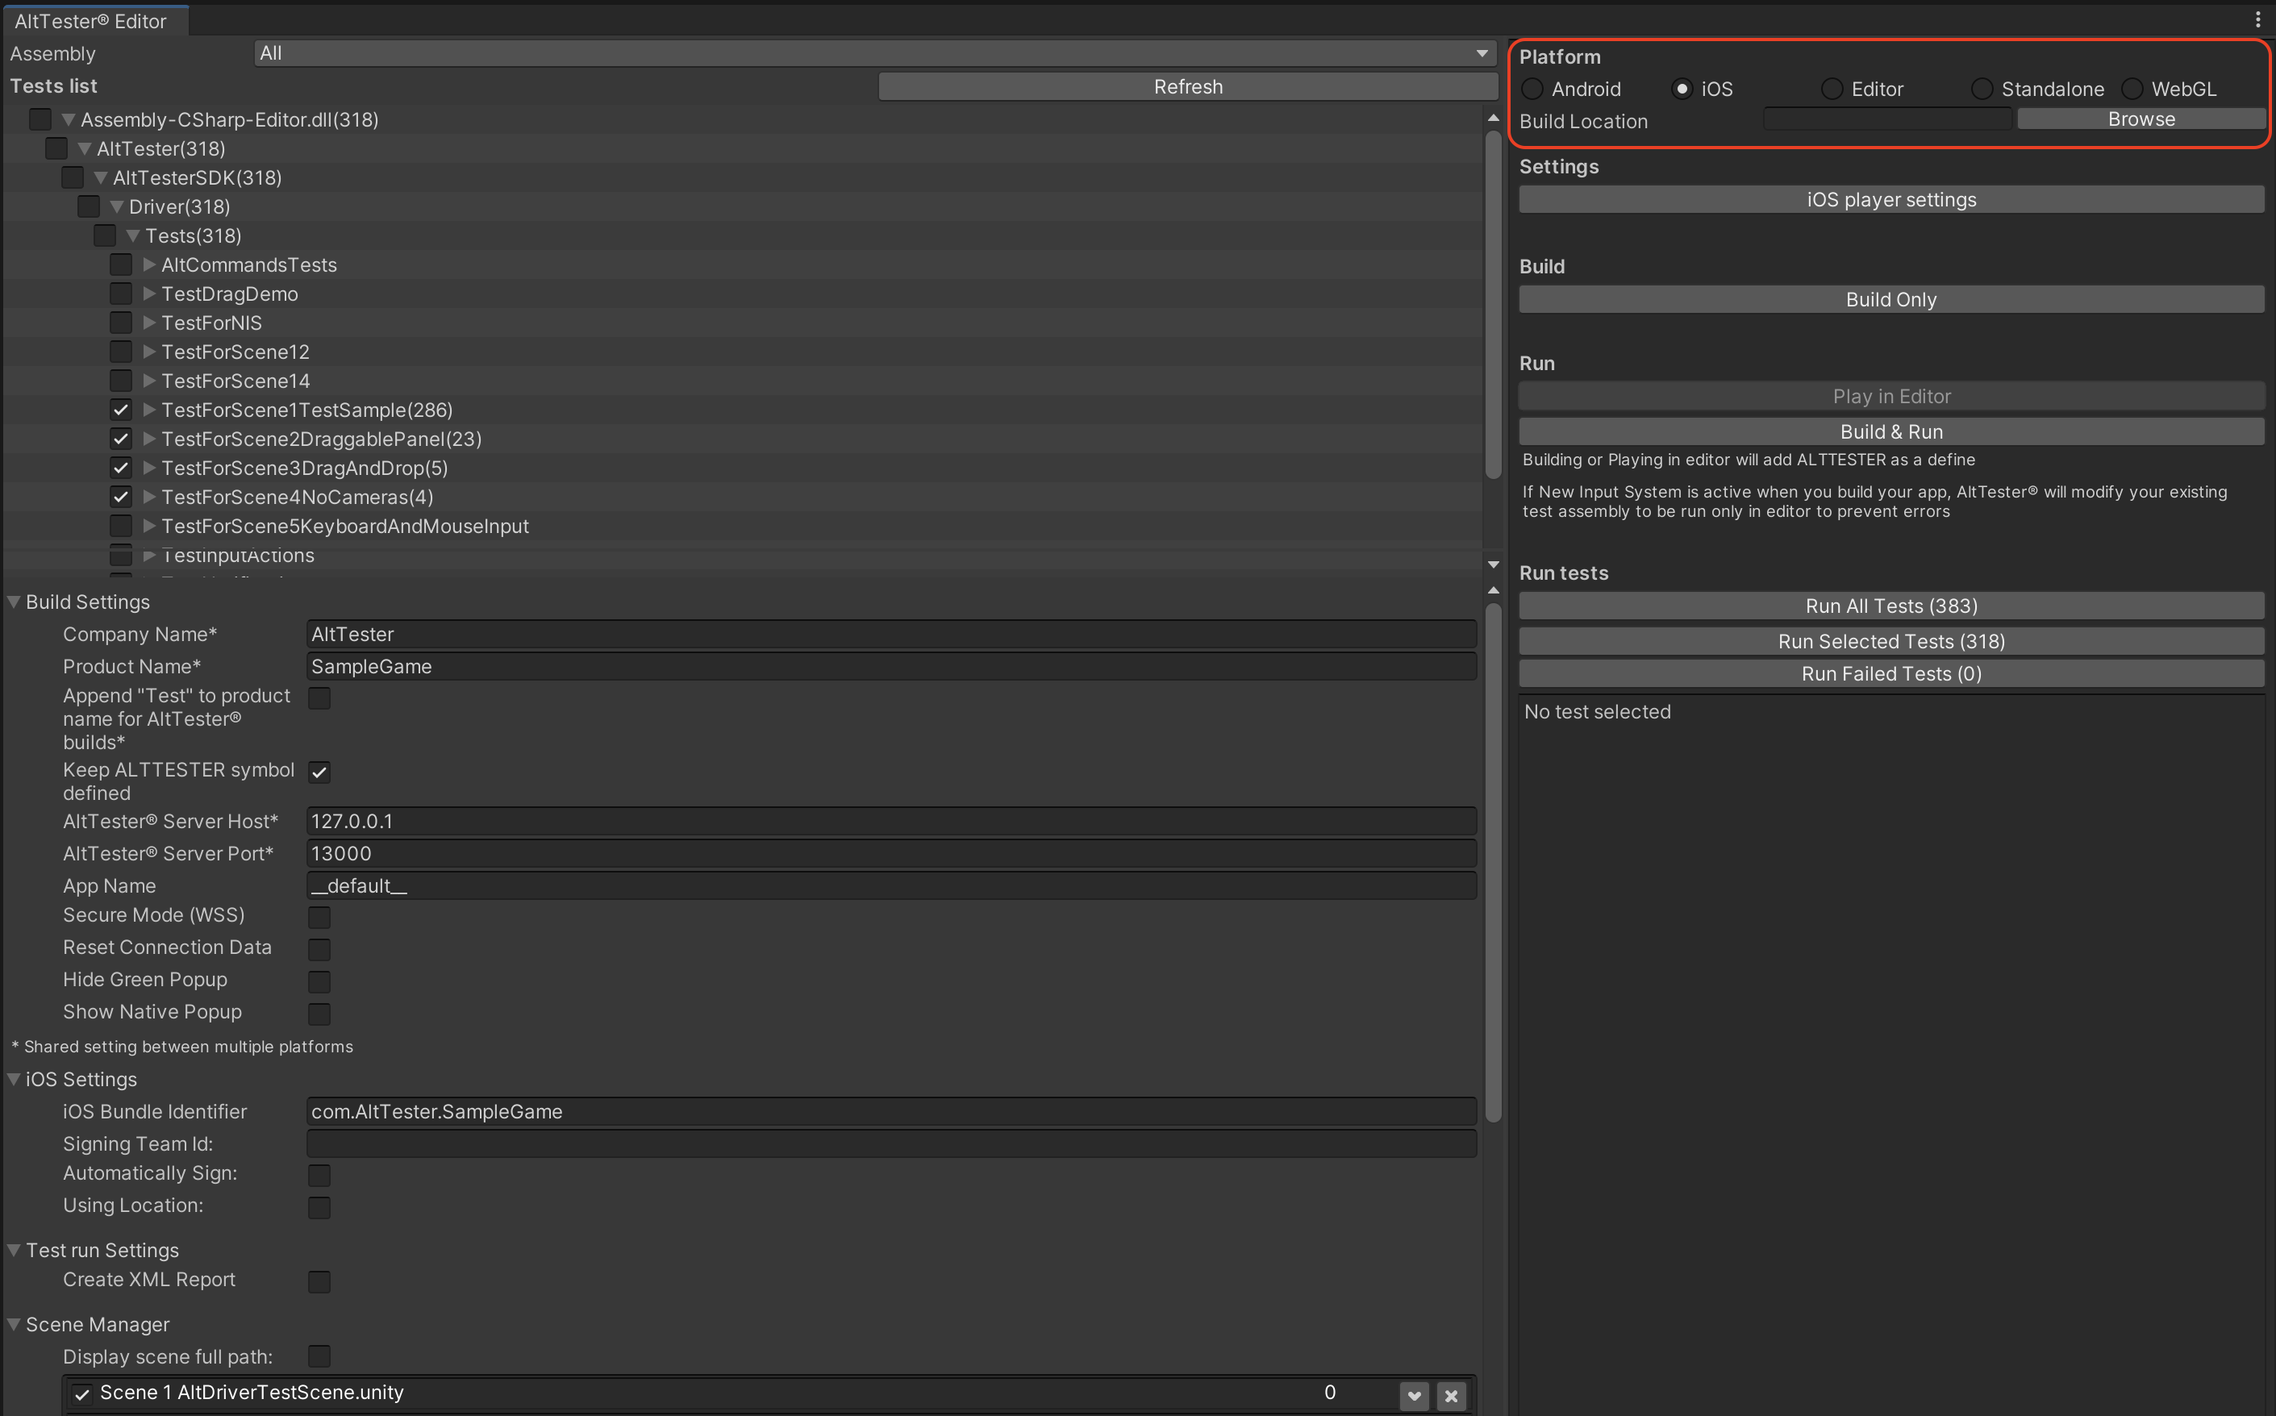
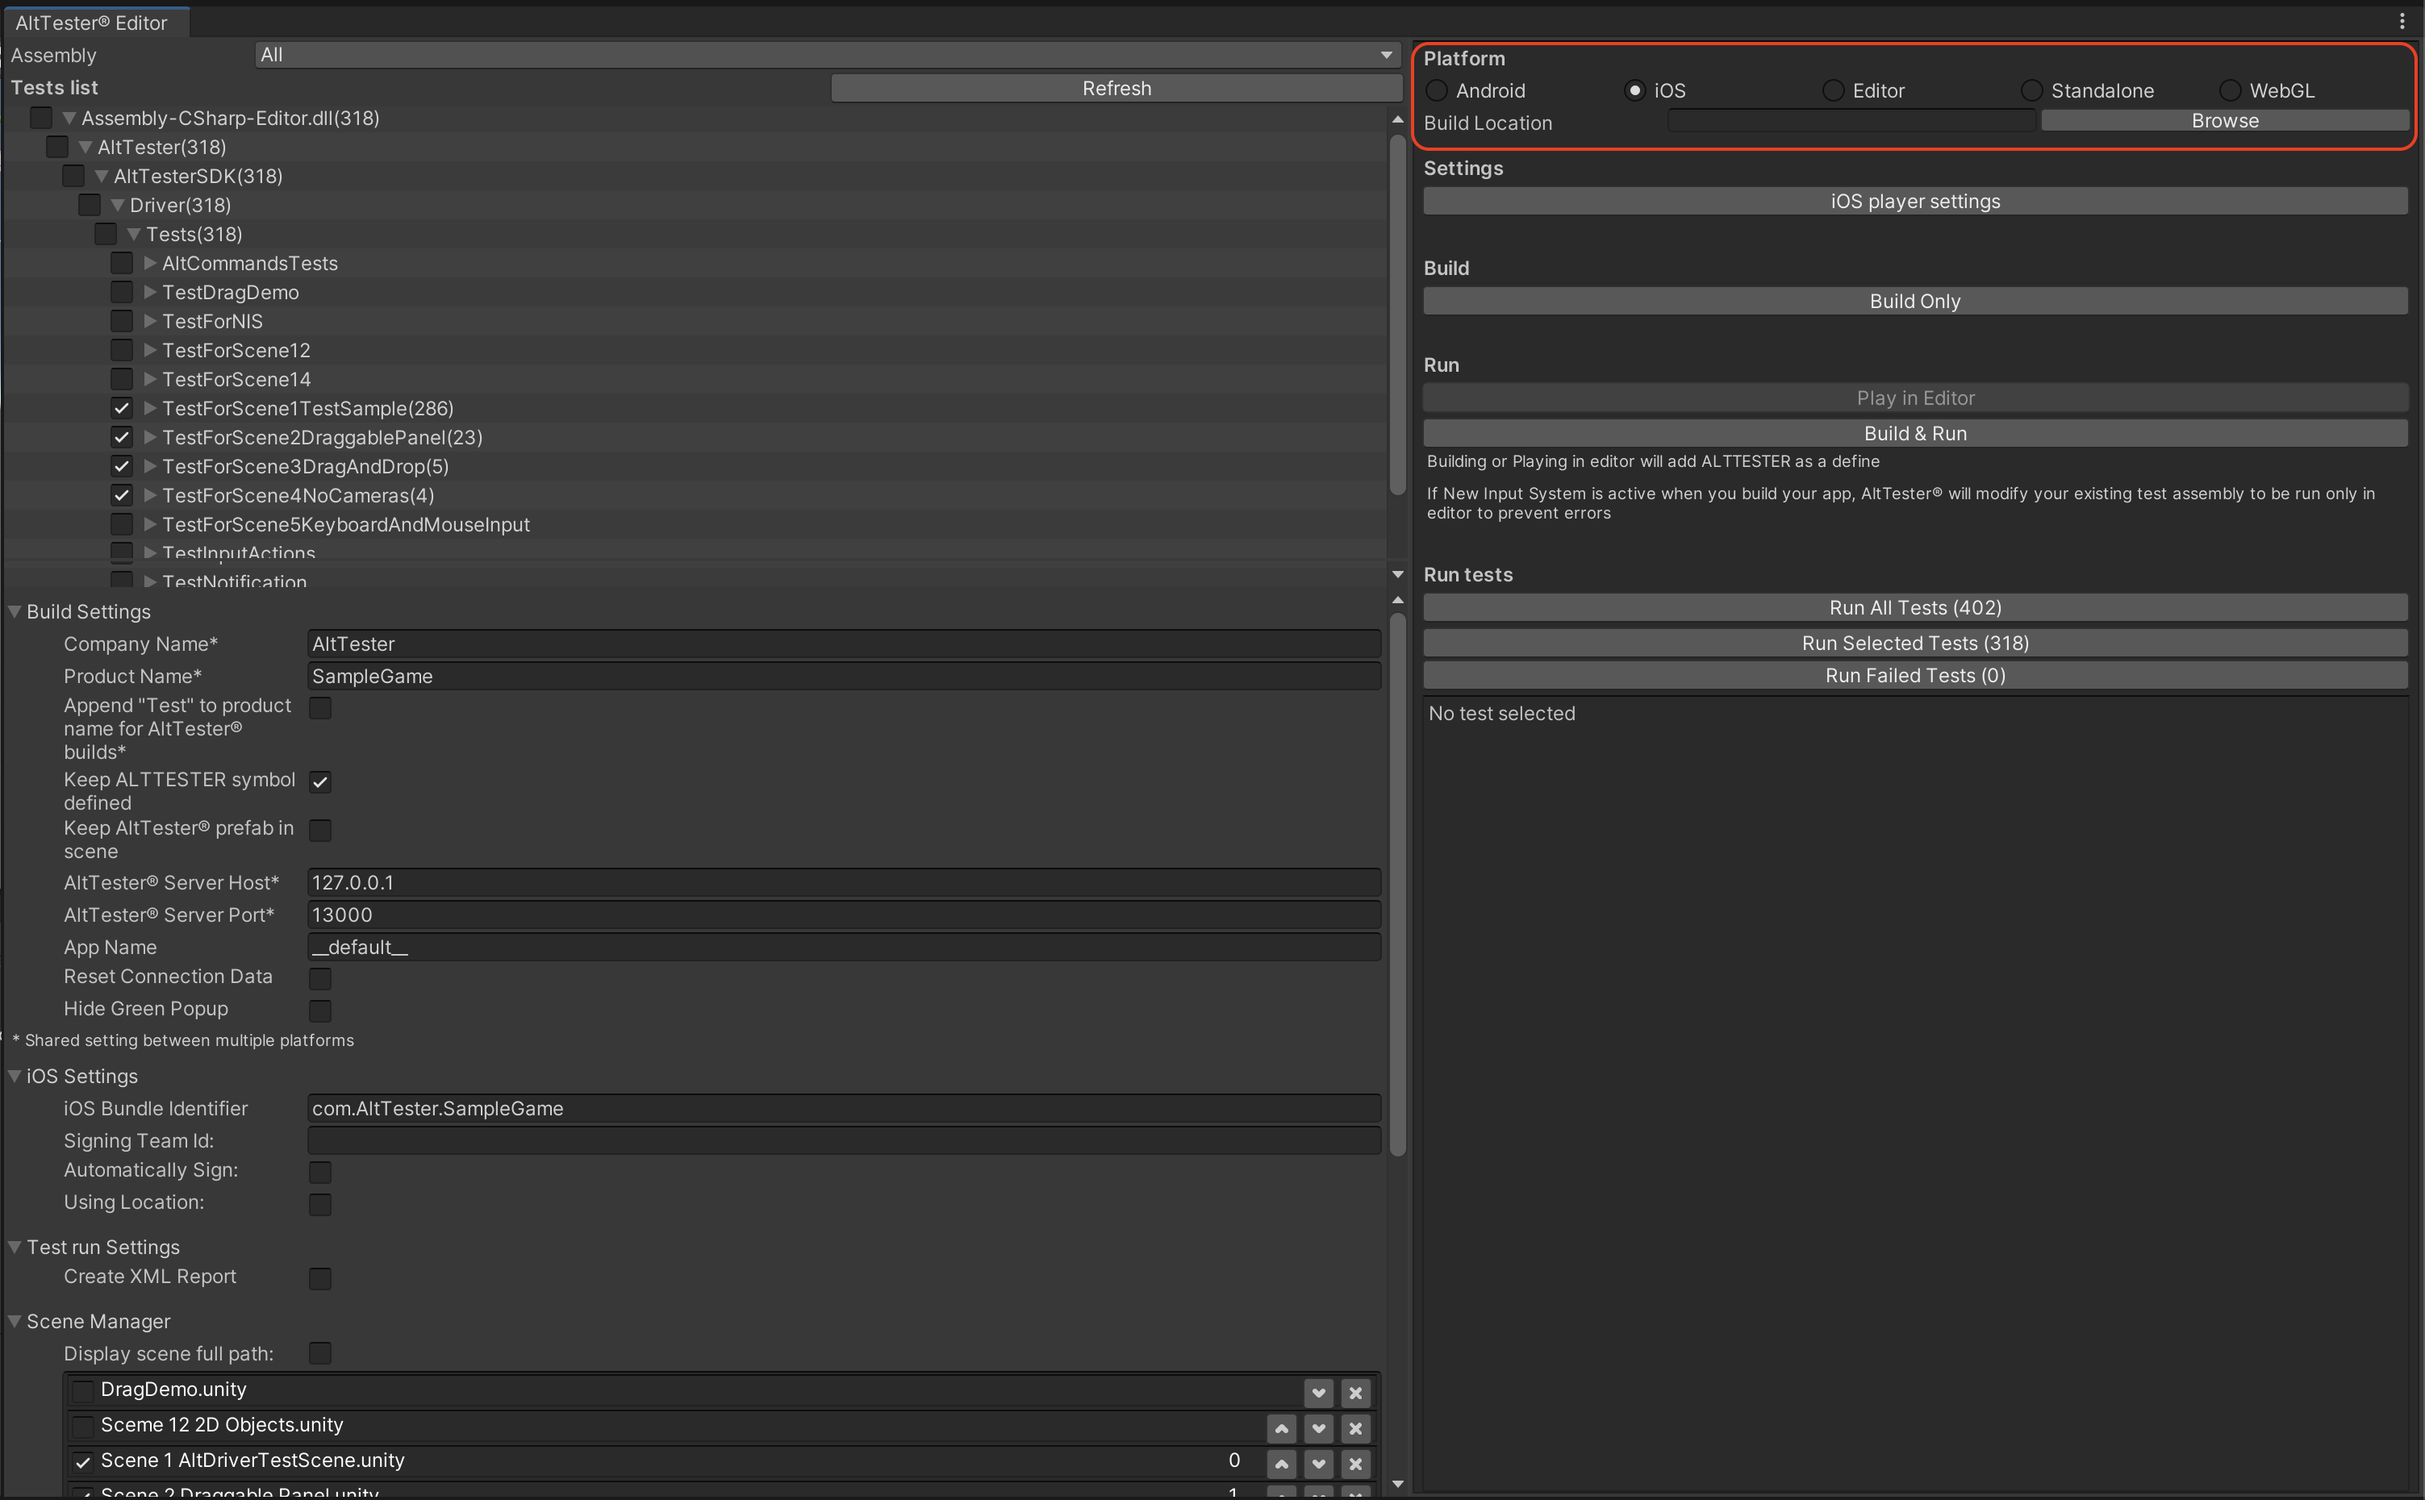
Updated docs for Keep AltTester prefab in scene setting

Changed region(s): [[0.343, 0.0, 1.0, 1.0], [0.0, 0.0, 0.6549, 1.0]]

diff --git a/Docs/source/pages/advanced-usage.md b/Docs/source/pages/advanced-usage.md
@@ -145,7 +145,7 @@ To instrument your Unity project with AltTester® Unity SDK using Unity Cloud Bu
 
 ## How to make a production build
 
-There is no need to remove the AltTester® package entirely from the project, only the `ALTTESTER` Scripting Define Symbol should be deleted from the Player Settings. Also, make sure that the `Keep ALTTESTER symbol defined` checkbox is unchecked. After that, you can build your app normally as you would do in Unity.
+There is no need to remove the AltTester® package entirely from the project, only the `ALTTESTER` Scripting Define Symbol should be deleted from the Player Settings. Also, make sure that the `Keep ALTTESTER symbol defined` checkbox is unchecked. If you have enabled the `Keep AltTester® prefab in scene` option, make sure that is also unchecked so the AltTester® Prefab is not left in the scene. After that, you can build your app normally as you would do in Unity.
 
 ## Run tests from the command line
 

diff --git a/Docs/source/pages/alttester-editor.md b/Docs/source/pages/alttester-editor.md
@@ -57,6 +57,10 @@ In the following sections you can see a breakdown of all the sections in the GUI
 
     Will add "ALTTESTER" to the scripting define symbols. This is usually done automatically when entering in play mode or building the application. This option is not recommended if you are developing your application but can be used if you are on a branch where you only write tests.
 
+-  *Keep AltTester® prefab in scene*:
+
+    When enabled, if the AltTester® Prefab is already present as a root object in the active scene it will be kept untouched — no new prefab is created. If the prefab is not present in the scene, it will be inserted automatically. When this option is disabled (default), the prefab is removed and recreated on each Play/Stop cycle, matching the previous behavior.
+
 - *AltTester® Server Host*
 
     Refers to the host the AltTester® Server is listening on.
